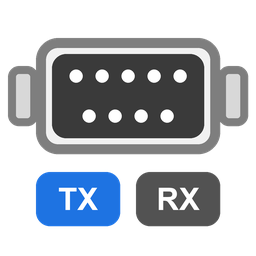
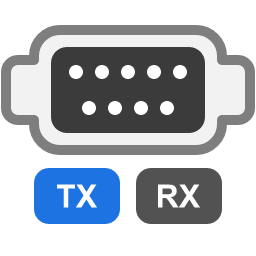
chore: 精简仓库结构并同步文档
- eslint 配置并入 package.json，删除 .eslintrc.js
- api.ts 移入 src/，契约路径与 .vscodeignore 同步
- 打包产物输出到 dist，根目录不再保留 vsix
- README 补充过滤标红、发送回显、产物路径；CHANGELOG 补记图标与界面改动
- 版本图标整合为 icon.png + icon.svg，视图图标指向 icon.svg

diff --git a/src/api.ts b/src/api.ts
@@ -4,7 +4,7 @@
 import * as vscode from "vscode";
 // Reuse the implementation types so the contract cannot drift from the code
 // (StopBits used to be a string enum here while the implementation used 1 / 1.5 / 2).
-import type { DataBits, Parity, StopBits } from "./src/serialManager";
+import type { DataBits, Parity, StopBits } from "./serialManager";
 
 export enum LineEnding {
   None = "none",

diff --git a/README.md b/README.md
@@ -12,14 +12,14 @@
 |---|---|
 | 连接 | 串口直连 / TCP 客户端；波特率（15 个预设 + 自定义）、数据位、停止位、校验位、流控制全配 |
 | 中文 | UTF-8 / GB18030 / Latin1；**增量解码**，多字节字符被分包截断也不会出现半个汉字 |
-| 收发 | ASCII 与十六进制双向切换；行尾符（无 / LF / CR / CRLF）；转义 `\r` `\n` `\t` `\xNN`；循环发送 |
-| 显示 | 毫秒级时间戳并标注收发方向；自动滚动；关键字过滤；保存为 txt / log |
+| 收发 | ASCII 与十六进制双向切换；行尾符（无 / LF / CR / CRLF）；转义 `\r` `\n` `\t` `\xNN`；循环发送；发送回显可隐藏 |
+| 显示 | 毫秒级时间戳并标注收发方向；自动滚动；关键字过滤且命中片段标红；保存为 txt / log |
 | 稳定性 | DTR / RTS 手动电平；断线自动重连（约 1 分钟）；打开前 5 秒等待设备枚举 |
 
 ## 安装
 
 - **商店**：扩展视图搜索「串口助手」，或[打开商店页面](https://marketplace.visualstudio.com/items?itemName=HsomeYang.serial-assistant)
-- **VSIX**：`code --install-extension serial-assistant-0.1.0.vsix`；TRAE / CodeBuddy 等衍生 IDE 用「扩展视图 → `...` → 从 VSIX 安装」
+- **VSIX**：`code --install-extension dist/serial-assistant-0.1.0.vsix`；TRAE / CodeBuddy 等衍生 IDE 用「扩展视图 → `...` → 从 VSIX 安装」
 
 装完按 `Ctrl+Shift+P` → `Developer: Reload Window` 重载窗口。
 
@@ -38,6 +38,7 @@
 | 列表外的波特率 | 波特率选「自定义…」再填数值 |
 | 看原始字节 | 点「接收 [ASCII 文本]」切到「十六进制」 |
 | 中文乱码 | 编码切到 `GB18030`（GBK / GB2312 的超集）或 `UTF-8` |
+| 只盯某条报文 | 第二行过滤框输入关键字，命中的片段标红，`Esc` 清空；过滤只影响显示，缓存不外丢 |
 
 ## TCP 模式
 
@@ -64,7 +65,7 @@ VS Code 1.75 及以上，以及 TRAE、CodeBuddy、Cursor、VSCodium 等衍生 I
 
 - 暂无历史发送记录、快捷指令与文件发送（X / YMODEM）
 - HEX 按数据包显示，不保证与物理帧边界对齐
-- `0.1.x` 的 `activate()` 尚未导出 `getApi`，第三方集成契约见 `api.ts`
+- `0.1.x` 的 `activate()` 尚未导出 `getApi`，第三方集成契约见 `src/api.ts`
 
 ## 开发
 
@@ -72,7 +73,7 @@ VS Code 1.75 及以上，以及 TRAE、CodeBuddy、Cursor、VSCodium 等衍生 I
 npm install
 npm run build      # lint + 编译
 npm run compile    # 仅编译，供 F5 调试
-npm run package    # 生成 vsix
+npm run package    # 生成 dist/serial-assistant-<版本>.vsix
 npm run publish    # 发布到商店（需 VSCE_PAT）
 ```
 
@@ -85,7 +86,8 @@ src/
 ├─ webviewHtml.ts    面板界面（HTML / CSS / 脚本）
 ├─ linkBase.ts       串口与 TCP 共用：增量解码、事件分发
 ├─ serialManager.ts  串口收发
-└─ tcpManager.ts     TCP 客户端
+├─ tcpManager.ts     TCP 客户端
+└─ api.ts            对外 API 契约（尚未导出实现）
 ```
 
 发布：更新 `package.json` 的 `version` 与 `CHANGELOG.md` → `git tag v0.1.0 && git push --tags`，标签触发 `publish.yml`（打包、建 Release，配了 `VSCE_PAT` 时同时发布商店）。

diff --git a/CHANGELOG.md b/CHANGELOG.md
@@ -19,6 +19,9 @@
 - 界面改为队列批量绘制，并限制渲染队列与日志长度，长时间高速接收不再无限增长。
 - 输入框改为多行输入，`Shift+回车` 真正插入换行；行尾符可单独发送。
 - 仓库精简：移除模板化的社区文档与 Issue / PR 模板，保留 CI 与发布工作流。
+- 图标重画为 DB9 串口接口 + TX/RX 标签，面板图标同步为 TX/RX 双箭头。
+- 界面调整：删除「刷新」按钮（端口列表自动轮询）、新增接收内容过滤与命中标红、移除统计与清零；「断线重连」移入更多设置。
+- 工程整理：eslint 配置并入 `package.json`，`api.ts` 移入 `src/`，打包产物输出到 `dist/`。
 
 ## [0.1.0] - 2026-10-30
 

diff --git a/docs/开发备忘.md b/docs/开发备忘.md
@@ -36,7 +36,7 @@
 
 ## 后续计划
 
-- 补 `getApi()` 实现，打通 `api.ts` 契约
+- 补 `getApi()` 实现，打通 `src/api.ts` 契约
 - TCP 断线自动重连
 - 历史发送记录与快捷指令
 - 文件发送（X/YMODEM）
